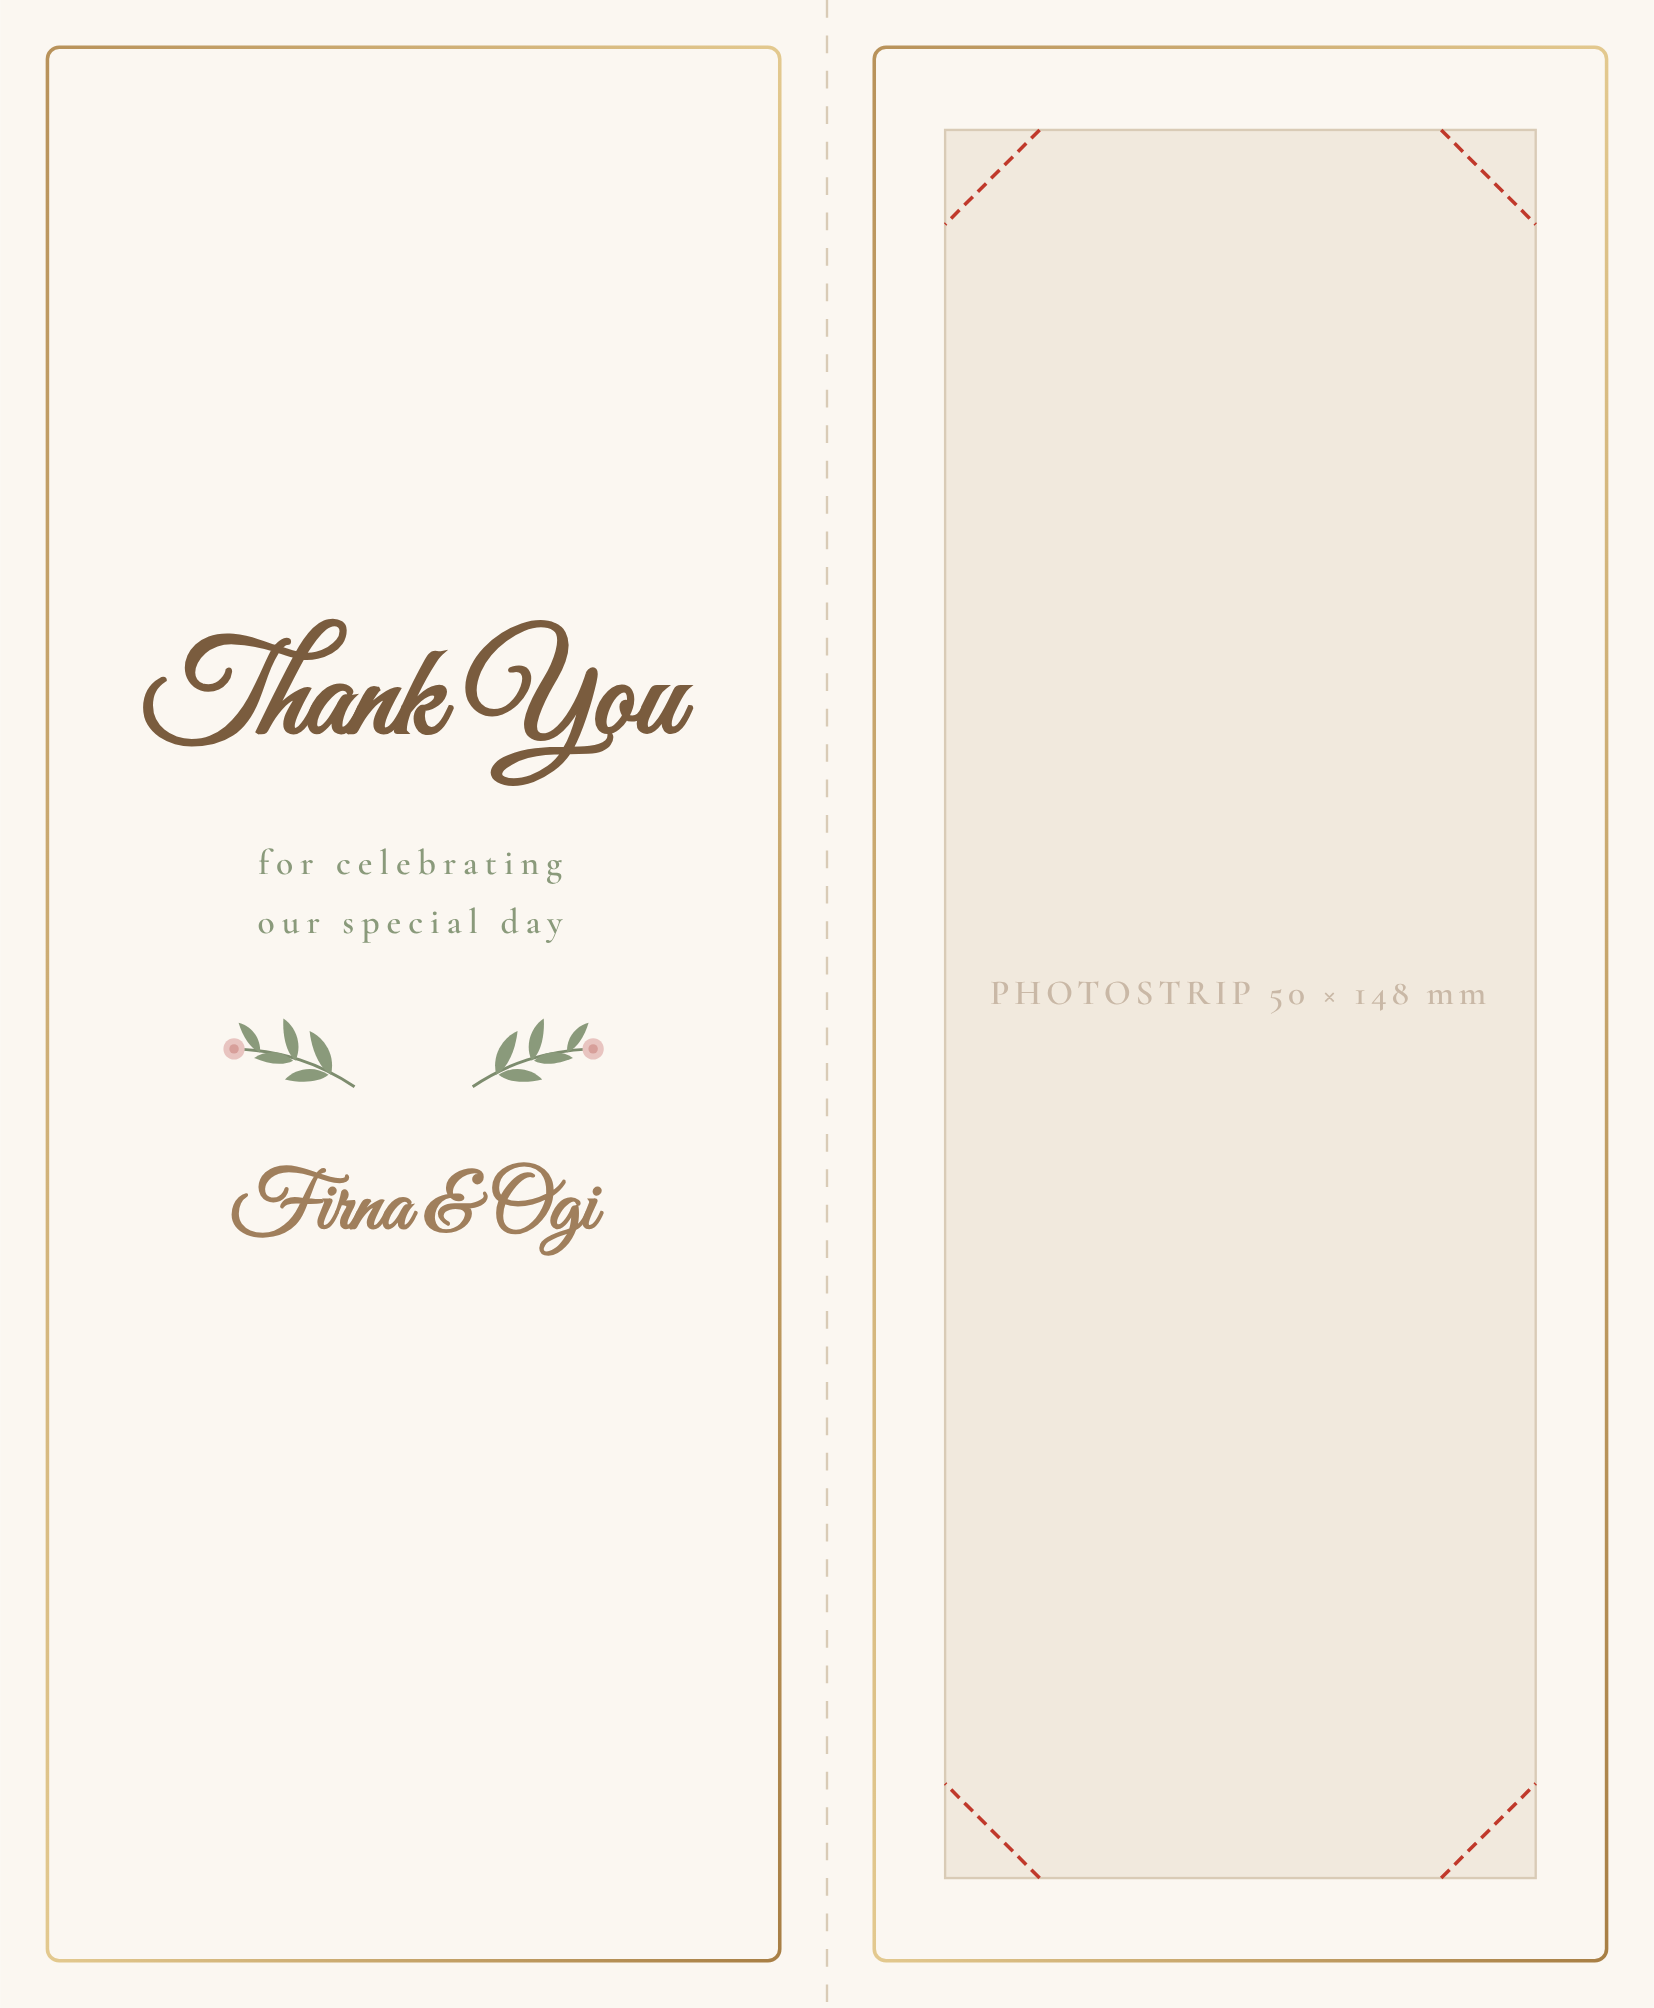
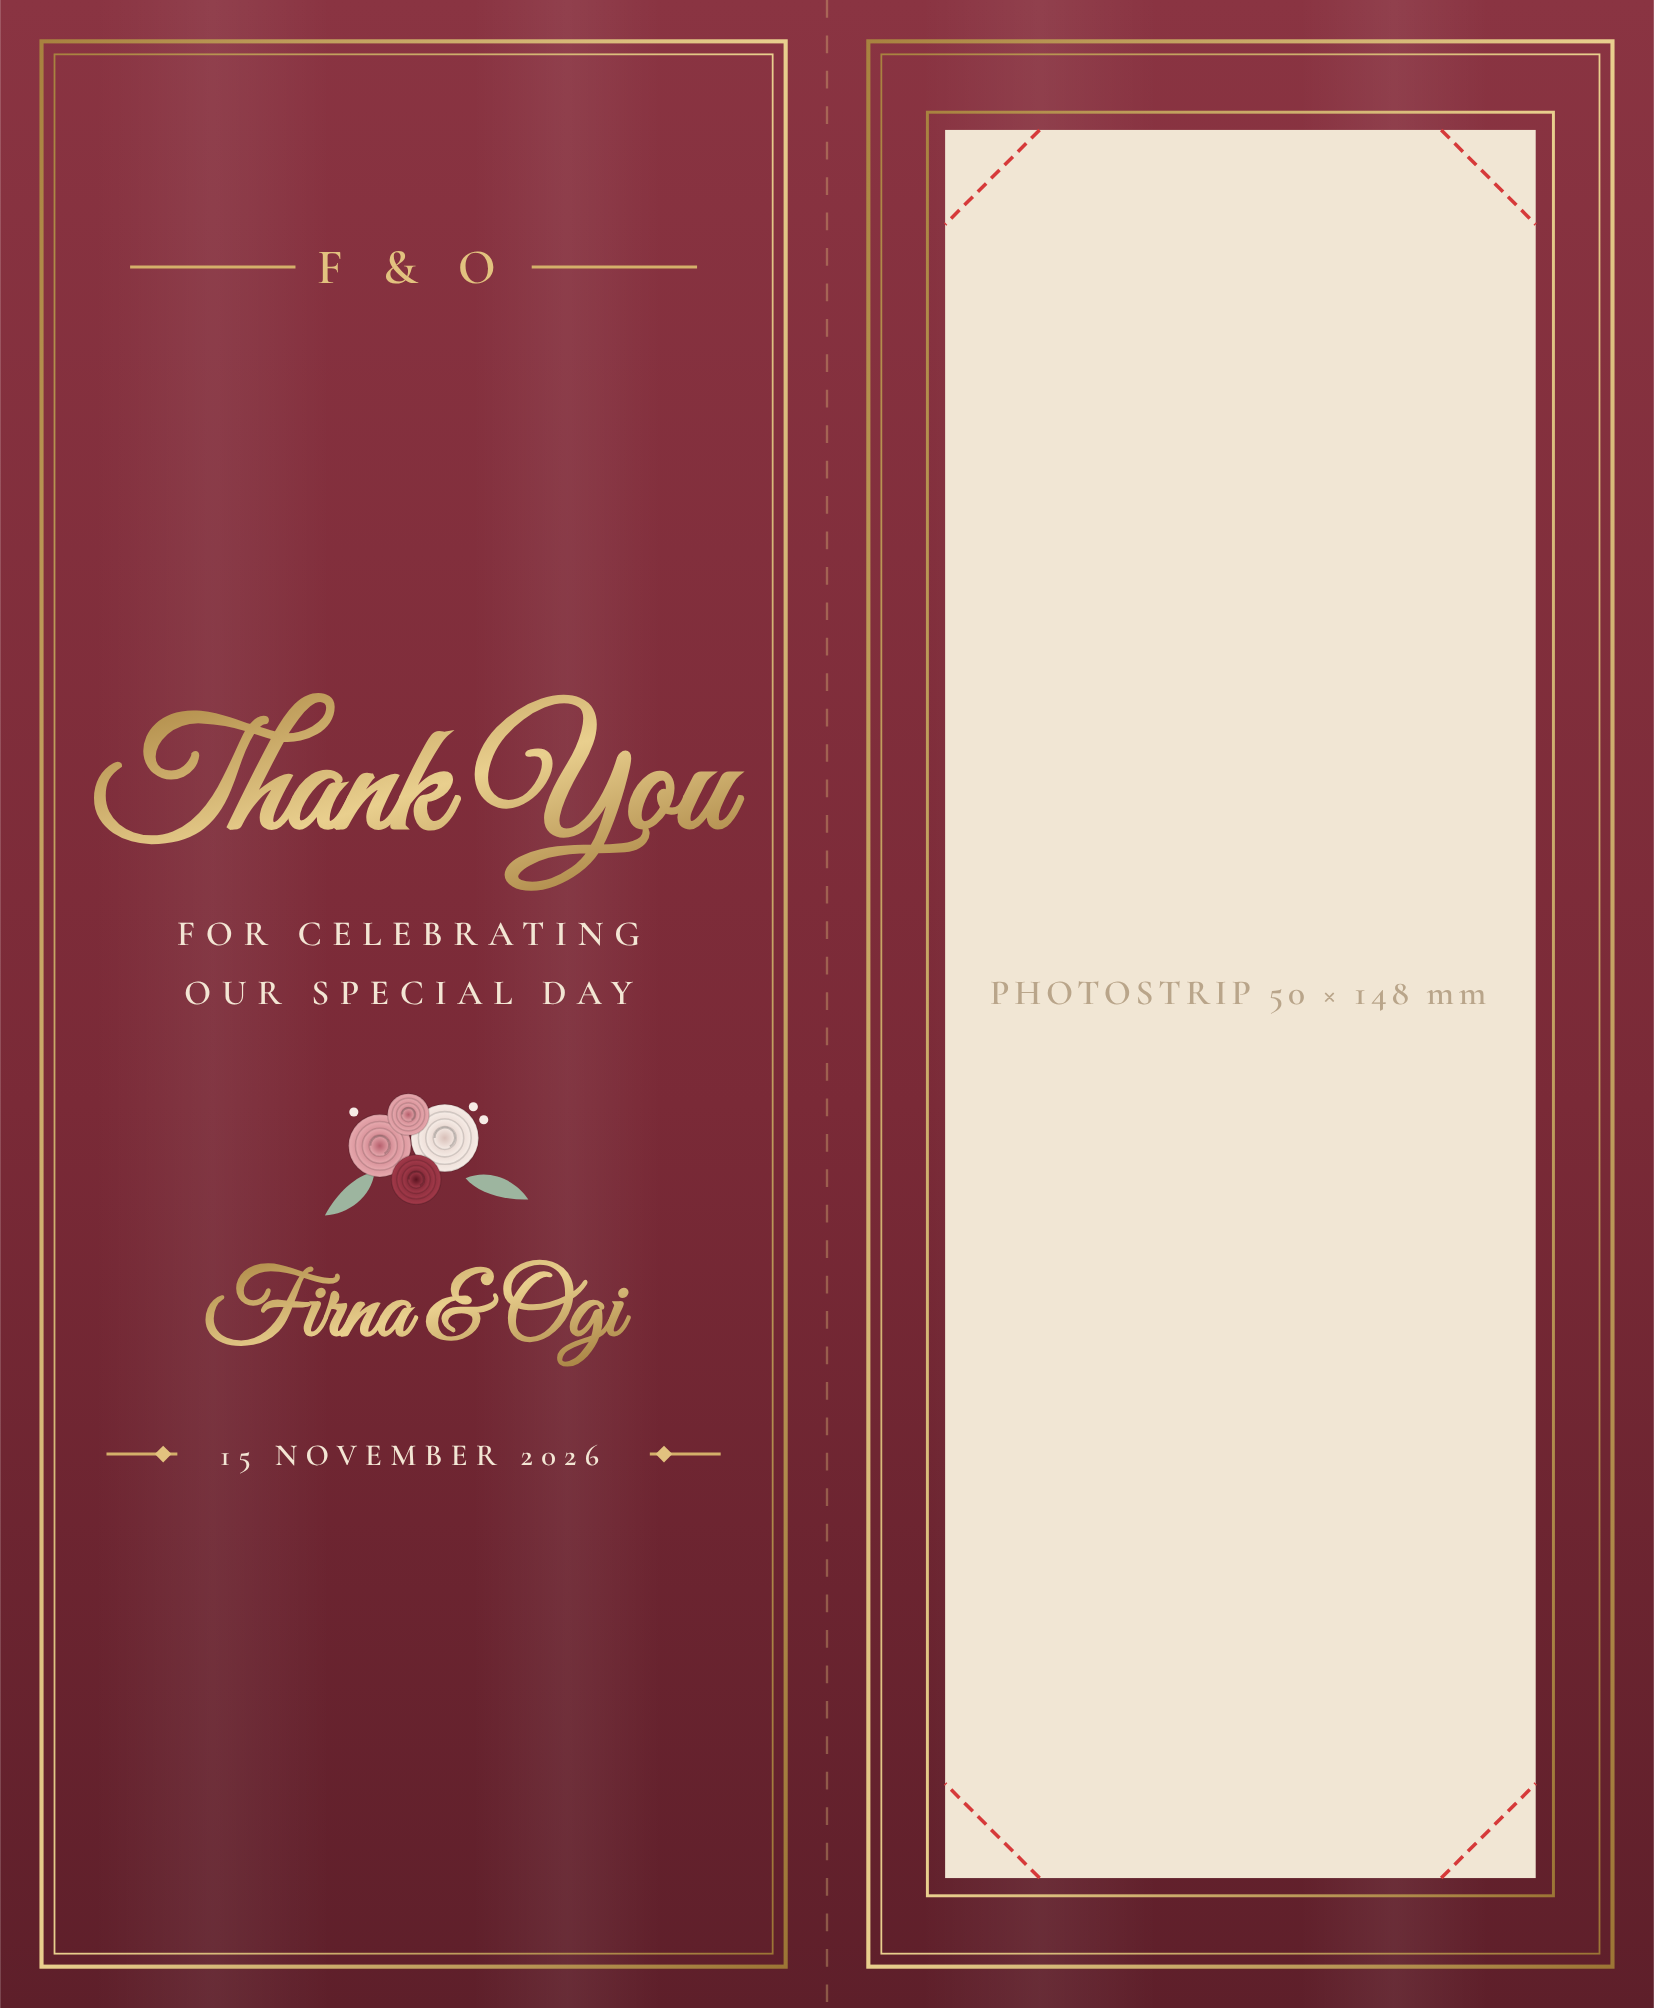
Restyle Firna & Ogi holder to match burgundy/gold frame
Claude-Session: https://claude.ai/code/session_01QeeKRMBddhCZKfcLxG3iw7

diff --git a/design/holder.html b/design/holder.html
@@ -1,38 +1,59 @@
 <!doctype html><html><head><meta charset="utf-8"><style>@font-face{font-family:"Great Vibes";src:url(gv.ttf)}@font-face{font-family:"Cormorant Garamond";font-weight:500 600;src:url(cg.ttf)}body{margin:0}svg{display:block}</style></head><body>
-<!-- 140 x 170 mm flat (2 panels 70 x 170), 300 dpi: 1 mm = 11.811 px -->
+<!-- 140 x 170 mm flat (2 panels 70 x 170), 300 dpi -->
 <svg id="out" xmlns="http://www.w3.org/2000/svg" width="1654" height="2008" viewBox="0 0 140 170"></svg>
 <svg id="in" xmlns="http://www.w3.org/2000/svg" width="1654" height="2008" viewBox="0 0 140 170"></svg>
 <script>
 const NS='http://www.w3.org/2000/svg';
 const el=(t,a,p,txt)=>{const e=document.createElementNS(NS,t);for(const k in a)e.setAttribute(k,a[k]);if(txt)e.textContent=txt;p.appendChild(e);return e};
-const defs=`<defs><linearGradient id="g" x1="0" y1="0" x2="1" y2="1"><stop offset="0" stop-color="#b8925a"/><stop offset=".5" stop-color="#e3c98f"/><stop offset="1" stop-color="#a87f45"/></linearGradient>
-<g id="leaf"><path d="M0 0 C1 -1.4 2.8 -1.6 4 -1 C2.8 -.2 1.2 .4 0 0Z" fill="#8a9a7b"/></g>
-<g id="sprig"><path d="M0 0 C3 -2 6 -3 10 -3.2" stroke="#7d8c6e" stroke-width=".25" fill="none"/>
-<use href="#leaf" transform="translate(2,-1) rotate(-50)"/><use href="#leaf" transform="translate(2.2,-1) rotate(20) scale(.9)"/>
-<use href="#leaf" transform="translate(5,-2.2) rotate(-60) scale(.9)"/><use href="#leaf" transform="translate(5.2,-2.2) rotate(10) scale(.8)"/>
-<use href="#leaf" transform="translate(8,-2.9) rotate(-40) scale(.75)"/>
-<circle cx="10.2" cy="-3.2" r=".9" fill="#e8c4c0"/><circle cx="10.2" cy="-3.2" r=".4" fill="#d79f9a"/></g></defs>`;
-const T=(p,x,y,s,txt,f='serif',fill='#7a5c3e',extra={})=>el('text',{x,y,'text-anchor':'middle','font-family':f==='script'?'Great Vibes':'Cormorant Garamond','font-weight':600,'font-size':s,fill,...extra},p,txt);
-const base=(id)=>{const s=document.getElementById(id);s.innerHTML=defs;el('rect',{width:140,height:170,fill:'#fbf7f1'},s);
- for(const x of [0,70])el('rect',{x:x+4,y:4,width:62,height:162,rx:1,fill:'none',stroke:'url(#g)','stroke-width':.3},s);
- el('line',{x1:70,y1:0,x2:70,y2:170,stroke:'#d9cbb6','stroke-width':.2,'stroke-dasharray':'1.5 1.5'},s);return s};
-// OUTSIDE: left = back, right = front cover
-const o=base('out');
-el('use',{href:'#sprig',transform:'translate(103,62) scale(-1.4,1.4)'},o);el('use',{href:'#sprig',transform:'translate(107,62) scale(1.4)'},o);
-T(o,105,82,15,'Firna','script');T(o,105,93,8,'&','script','#b8925a');T(o,105,106,15,'Ogi','script');
-el('line',{x1:93,y1:113,x2:117,y2:113,stroke:'url(#g)','stroke-width':.3},o);
-T(o,105,120,3.2,'THE WEDDING','serif','#8a9a7b',{'letter-spacing':1});T(o,105,126,3,'DD · MM · YYYY','serif','#a07f5c',{'letter-spacing':.6});
-el('use',{href:'#sprig',transform:'translate(30,150) scale(-1,1)'},o);el('use',{href:'#sprig',transform:'translate(40,150)'},o);
-T(o,35,160,2.4,'captured with love','serif','#a07f5c',{'letter-spacing':.5});
-// INSIDE: left = thank-you message, right = strip slot (50 x 148) with 4 corner slits
-const n=base('in');
-T(n,35,62,11,'Thank You','script');
-T(n,35,74,3,'for celebrating','serif','#8a9a7b',{'letter-spacing':.6});T(n,35,79,3,'our special day','serif','#8a9a7b',{'letter-spacing':.6});
-el('use',{href:'#sprig',transform:'translate(30,92) scale(-1,1)'},n);el('use',{href:'#sprig',transform:'translate(40,92)'},n);
-T(n,35,104,7,'Firna & Ogi','script','#a07f5c');
+const defs=`<defs>
+<linearGradient id="bg" x1="0" y1="0" x2="0" y2="1"><stop offset="0" stop-color="#8a3442"/><stop offset=".55" stop-color="#7a2a37"/><stop offset="1" stop-color="#5e1f2a"/></linearGradient>
+<linearGradient id="sheen" x1="0" y1="0" x2="1" y2="0"><stop offset="0" stop-color="#fff" stop-opacity="0"/><stop offset=".5" stop-color="#fff" stop-opacity=".06"/><stop offset="1" stop-color="#fff" stop-opacity="0"/></linearGradient>
+<linearGradient id="g" x1="0" y1="0" x2="1" y2="1"><stop offset="0" stop-color="#a8823f"/><stop offset=".5" stop-color="#e9cf8e"/><stop offset="1" stop-color="#9c7535"/></linearGradient>
+<radialGradient id="rp"><stop offset="0" stop-color="#b65f6c"/><stop offset="1" stop-color="#e7a9ae"/></radialGradient>
+<radialGradient id="rw"><stop offset="0" stop-color="#d8bfb8"/><stop offset="1" stop-color="#f6ece6"/></radialGradient>
+<radialGradient id="rd"><stop offset="0" stop-color="#5a1420"/><stop offset="1" stop-color="#a33a4a"/></radialGradient>
+<g id="leafx"><path d="M0 0 C1.2 -1.6 3.4 -1.8 5 -1 C3.4 0 1.4 .5 0 0Z" fill="#9db59f"/></g>
+</defs>`;
+const rose=(p,x,y,r,fill)=>{const g=el('g',{transform:`translate(${x},${y})`},p);
+ for(let i=0;i<4;i++)el('circle',{cx:0,cy:0,r:r*(1-i*.22),fill,stroke:'#00000022','stroke-width':.12},g);
+ el('path',{d:`M${-r*.3} 0 A${r*.3} ${r*.3} 0 1 1 ${r*.15} ${r*.25}`,fill:'none',stroke:'#00000033','stroke-width':.15},g);};
+const bouquet=(p,x,y,s=1,flip=1)=>{const g=el('g',{transform:`translate(${x},${y}) scale(${s*flip},${s})`},p);
+ el('use',{href:'#leafx',transform:'translate(-3,2) rotate(150)'},g);el('use',{href:'#leafx',transform:'translate(4,2.5) rotate(30)'},g);
+ rose(g,-2.6,0,2.4,'url(#rp)');rose(g,2.4,-.6,2.6,'url(#rw)');rose(g,.2,2.6,1.9,'url(#rd)');rose(g,-.4,-2.4,1.6,'url(#rp)');
+ for(const[a,b]of[[4.6,-3],[5.4,-2],[-4.6,-2.6]])el('circle',{cx:a,cy:b,r:.35,fill:'#f6ece6'},g);};
+const T=(p,x,y,s,txt,f,fill,extra={})=>el('text',{x,y,'text-anchor':'middle','font-family':f==='script'?'Great Vibes':'Cormorant Garamond','font-weight':600,'font-size':s,fill,...extra},p,txt);
+const rule=(p,cx,y,w,dia=true)=>{el('line',{x1:cx-w/2,y1:y,x2:cx+w/2,y2:y,stroke:'#d4b06a','stroke-width':.25},p);
+ if(dia)for(const d of[-w*.36,w*.36])el('rect',{x:cx+d-.5,y:y-.5,width:1,height:1,fill:'#e2c27f',transform:`rotate(45 ${cx+d} ${y})`},p);};
+const drule=(p,cx,y,w,gap)=>{for(const sg of[-1,1]){el('line',{x1:cx+sg*gap/2,y1:y,x2:cx+sg*w/2,y2:y,stroke:'#d4b06a','stroke-width':.25},p);
+ const dx=cx+sg*(gap/2+1.2);el('rect',{x:dx-.5,y:y-.5,width:1,height:1,fill:'#e2c27f',transform:`rotate(45 ${dx} ${y})`},p);}};
+const base=(id)=>{const s=document.getElementById(id);s.innerHTML=defs;
+ el('rect',{width:140,height:170,fill:'url(#bg)'},s);
+ for(const x of[0,70]){el('rect',{x:x+8,y:0,width:20,height:170,fill:'url(#sheen)'},s);el('rect',{x:x+40,y:0,width:16,height:170,fill:'url(#sheen)'},s);
+  el('rect',{x:x+3.5,y:3.5,width:63,height:163,fill:'none',stroke:'url(#g)','stroke-width':.35},s);
+  el('rect',{x:x+4.6,y:4.6,width:60.8,height:160.8,fill:'none',stroke:'url(#g)','stroke-width':.15},s);}
+ el('line',{x1:70,y1:0,x2:70,y2:170,stroke:'#e2c27f','stroke-opacity':.35,'stroke-width':.2,'stroke-dasharray':'1.5 1.5'},s);return s};
+const gold={fill:'url(#g)'};
+// OUTSIDE: right = front cover, left = back
+const o=base('out');const fx=105;
+T(o,fx,24,4.2,'F  &  O','serif','#e2c27f',{'letter-spacing':1.2});rule(o,fx-17,22.6,14,false);rule(o,fx+17,22.6,14,false);
+bouquet(o,fx+19,48,1.3);bouquet(o,fx-20,150,1.3,-1);
+T(o,fx,68,3.4,'THE WEDDING OF','serif','#f3e6d4',{'letter-spacing':1.1});
+T(o,fx,88,17,'Firna','script','url(#g)');T(o,fx,99,9,'&','script','url(#g)');T(o,fx,114,17,'Ogi','script','url(#g)');
+drule(o,fx,128,54,44);T(o,fx,129.05,3,'15 NOVEMBER 2026','serif','#f3e6d4',{'letter-spacing':.8});
+const bx=35;bouquet(o,bx,136,1);T(o,bx,151,6,'captured with love','script','url(#g)');
+T(o,bx,158,2.4,'@kelanacirebon_','serif','#e2c27f',{'letter-spacing':.3});
+// INSIDE: left = thank you, right = strip slot
+const n=base('in');const lx=35;
+T(n,lx,24,4.2,'F  &  O','serif','#e2c27f',{'letter-spacing':1.2});rule(n,lx-17,22.6,14,false);rule(n,lx+17,22.6,14,false);
+T(n,lx,70,13,'Thank You','script','url(#g)');
+T(n,lx,80,3,'FOR CELEBRATING','serif','#f3e6d4',{'letter-spacing':.9});T(n,lx,85,3,'OUR SPECIAL DAY','serif','#f3e6d4',{'letter-spacing':.9});
+bouquet(n,lx,97,1.1);
+T(n,lx,113,8,'Firna & Ogi','script','url(#g)');drule(n,lx,123.1,52,40);
+T(n,lx,124,2.6,'15 NOVEMBER 2026','serif','#f3e6d4',{'letter-spacing':.7});
 const sx=80,sy=11,sw=50,sh=148;
-el('rect',{x:sx,y:sy,width:sw,height:sh,fill:'#f1e9dd',stroke:'#d9cbb6','stroke-width':.2},n);
-T(n,sx+sw/2,sy+sh/2,3,'PHOTOSTRIP 50 × 148 mm','serif','#c9b8a6',{'letter-spacing':.4});
+el('rect',{x:sx-1.5,y:sy-1.5,width:sw+3,height:sh+3,fill:'none',stroke:'url(#g)','stroke-width':.25},n);
+el('rect',{x:sx,y:sy,width:sw,height:sh,fill:'#f1e6d4'},n);
+T(n,sx+sw/2,sy+sh/2,3,'PHOTOSTRIP 50 × 148 mm','serif','#b9a58a',{'letter-spacing':.4});
 const k=8;for(const[cx,cy,dx,dy]of[[sx,sy,1,1],[sx+sw,sy,-1,1],[sx,sy+sh,1,-1],[sx+sw,sy+sh,-1,-1]])
- el('line',{x1:cx+dx*k,y1:cy,x2:cx,y2:cy+dy*k,stroke:'#c0392b','stroke-width':.3,'stroke-dasharray':'1 .6'},n);
+ el('line',{x1:cx+dx*k,y1:cy,x2:cx,y2:cy+dy*k,stroke:'#d63a3a','stroke-width':.3,'stroke-dasharray':'1 .6'},n);
 </script></body></html>
